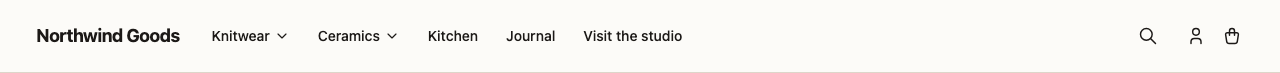
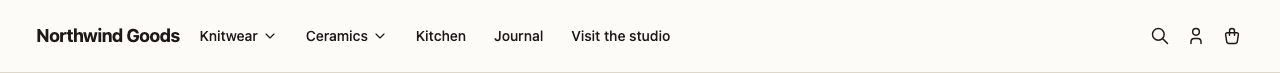
fix(starter): even header action spacing, closer call to action
A @tablet:gap-4 on the header's own nav grid put 1rem between the search
icon and the account/cart cluster, against the 0.25rem the actions row's
own gap-1 puts between account and cart — the three icon buttons read as
two pairs rather than one evenly spaced row. The spec names 0.25rem for
the grid's column gap and never a larger one, so it's gone; the row now
holds one gap-1 everywhere. The call to action gets its own @content:ml-2
on top of that gap-1, matching the spec's "sits 0.75rem after the cart".

Claude-Session: https://claude.ai/code/session_01PrhRPeSEXfCewda5L33mmT

Changed region(s): [[0.1562, 0.411, 0.5312, 0.5753], [0.875, 0.3836, 0.9375, 0.5753]]

diff --git a/examples/starter-nuxt/blocks/navigation/__tests__/Block.spec.ts b/examples/starter-nuxt/blocks/navigation/__tests__/Block.spec.ts
@@ -1567,6 +1567,43 @@ describe('header block (navigation apiId)', () => {
     for (const link of mock.links) expect(wrapper.text()).toContain(link.label);
   });
 
+  describe('actions row spacing', () => {
+    // Regression for an uneven header: a `@tablet:gap-4` on the bar's own grid put 1rem between
+    // the search column and this row, against the 0.25rem `gap-1` puts between its own buttons —
+    // so search read as detached from account/cart, which themselves looked glued together.
+    it('puts one 0.25rem gap everywhere in the bar’s grid — never a larger one between columns', () => {
+      const wrapper = mountBlock(resolved.data);
+      const nav = wrapper.get('nav[aria-label="Primary navigation"]');
+      expect(nav.classes()).toContain('gap-1');
+      expect(nav.classes().some((cls) => cls.includes('gap-4'))).toBe(false);
+
+      const actions = wrapper.get('[data-eldra-header-actions]');
+      expect(actions.classes()).toContain('gap-1');
+    });
+
+    it('does not let the account button’s hidden/visible pair sit on a wrapper that keeps a gap slot while it is hidden', () => {
+      const wrapper = mountBlock(resolved.data);
+      const actions = wrapper.get('[data-eldra-header-actions]');
+      const account = wrapper.get('[aria-label="Account"]');
+      // `hidden @content:inline-flex` lands on the button's own root — the flex item the row's
+      // `gap-1` actually counts — not on a wrapper around it. A wrapper carrying `hidden` while
+      // the button inside it carries the visible class would still occupy a gap slot: the parent
+      // check below is what rules that out, not just the classes existing somewhere in the tree.
+      expect(account.classes()).toEqual(expect.arrayContaining(['hidden', '@content:inline-flex']));
+      expect(account.element.parentElement).toBe(actions.element);
+    });
+
+    it('gives the call to action its own 0.75rem from the cart, not only the row’s 0.25rem gap', () => {
+      const wrapper = mountBlock(resolved.data);
+      const actions = wrapper.get('[data-eldra-header-actions]');
+      const cta = wrapper.findAll('a, button').find((el) => el.text() === mock.ctaLabel)!;
+      // 0.5rem of margin on top of the row's own 0.25rem `gap-1` — spec "Header" -> Layout, "From
+      // 64rem": the call to action "sits 0.75rem after the cart".
+      expect(cta.classes()).toContain('@content:ml-2');
+      expect(cta.element.parentElement).toBe(actions.element);
+    });
+  });
+
   describe('empty / editor state', () => {
     /**
      * The header a fresh store actually starts with, copied from the shape every

diff --git a/examples/starter-nuxt/blocks/navigation/Block.vue b/examples/starter-nuxt/blocks/navigation/Block.vue
@@ -768,12 +768,23 @@ const actionsPositionClass = computed(() =>
     <Container width="wide">
       <!-- `relative` is what an open mega-menu panel measures itself against: this element is the
            header's content box (inside `Container`'s max-width and gutters), so a panel pinned to
-           `left-0 right-0` here spans exactly the bar's own container. -->
+           `left-0 right-0` here spans exactly the bar's own container.
+
+           One `gap-1` (0.25rem) at every width — spec "Header" -> Layout gives that number for the
+           mobile grid's column gap and repeats it for the actions row, and never states a larger
+           one for any breakpoint in between, including the gap between this grid's search and
+           actions columns. A `@tablet:gap-4` lived here before (paired with the tablet height
+           tweak, with no basis in the spec text) and was the actual source of the uneven header: a
+           1rem gap between the search icon and the account/cart cluster against the 0.25rem the
+           actions row's own `gap-1` puts between account and cart, so the three icon buttons read
+           as two pairs rather than one evenly spaced row. The call to action's own closer distance
+           ("sits 0.75rem after the cart") is set on the button itself, not here — see its
+           `@content:ml-2` below. -->
       <nav
         :aria-label="t('header.primary')"
         :class="[
           BAR_HEIGHT_CLASS,
-          '@tablet:gap-4 relative grid grid-cols-[auto_minmax(0,1fr)_auto_auto] items-center gap-1',
+          'relative grid grid-cols-[auto_minmax(0,1fr)_auto_auto] items-center gap-1',
         ]"
       >
         <Button
@@ -1091,13 +1102,16 @@ const actionsPositionClass = computed(() =>
             />
           </span>
 
+          <!-- Spec Header -> Layout, From 64rem: the call to action sits 0.75rem after the cart.
+               0.25rem of that is already the actions row's own gap-1; @content:ml-2 (0.5rem) makes
+               up the rest, so it reads as its own button rather than a fourth icon in the row. -->
           <Button
             v-if="hasCta && variant !== 'minimal'"
             variant="primary"
             size="sm"
             :href="ctaHref"
             :as="ctaLinkAs"
-            :classes="{ container: 'hidden @content:inline-flex' }"
+            :classes="{ container: 'hidden @content:inline-flex @content:ml-2' }"
           >
             {{ ctaLabel }}
           </Button>
